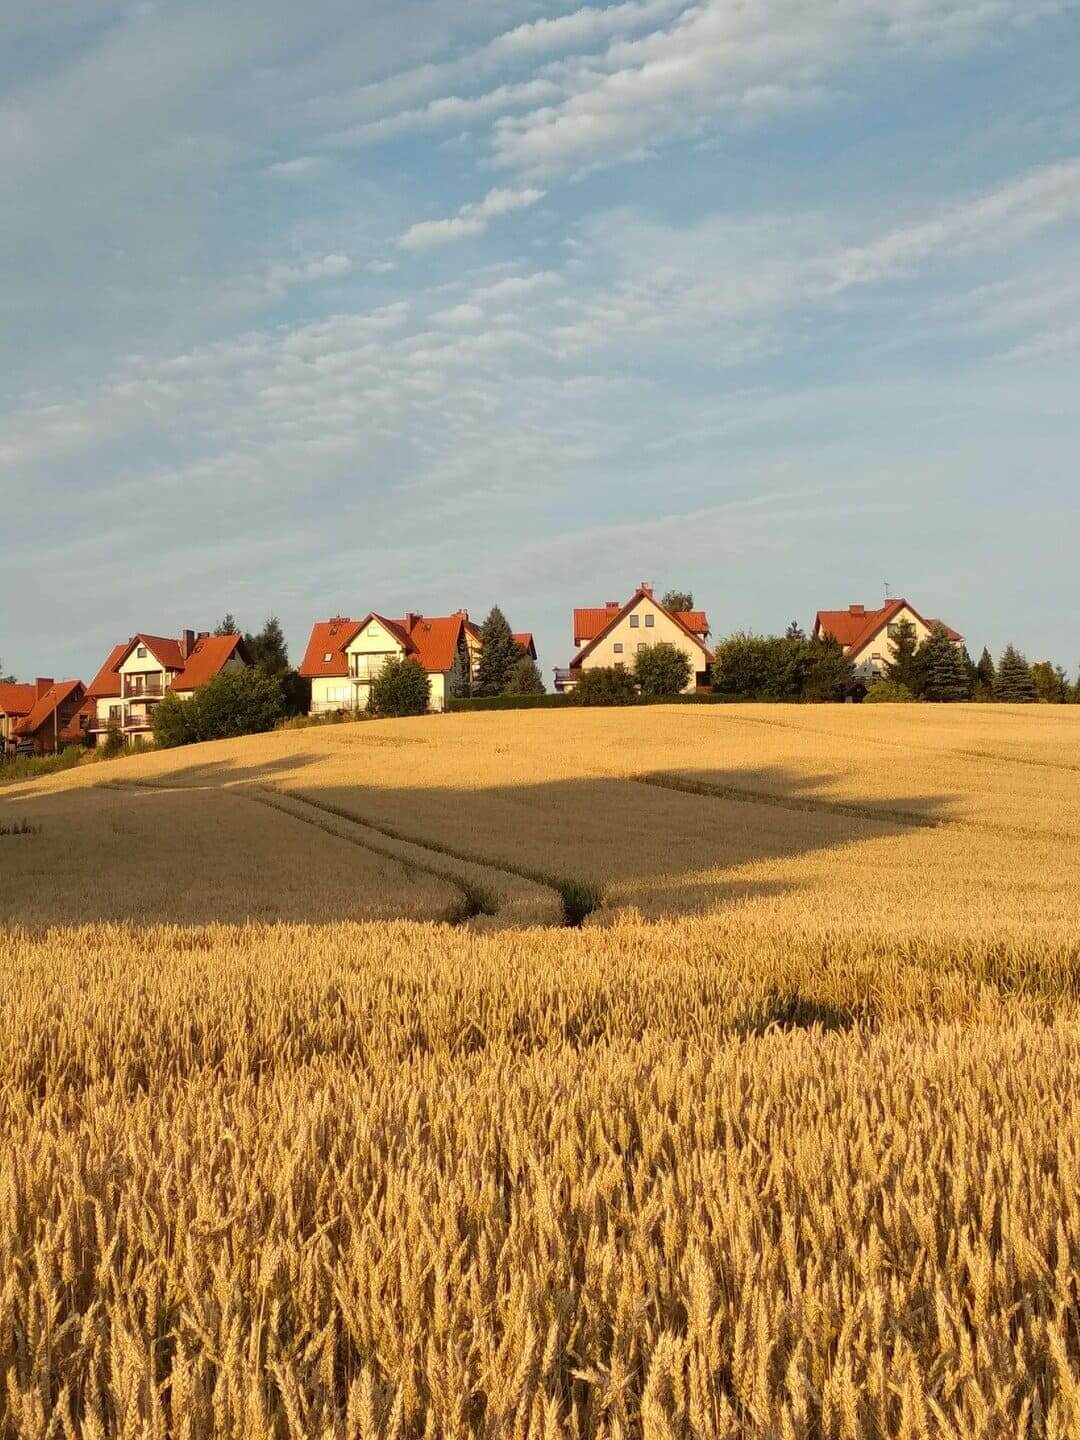
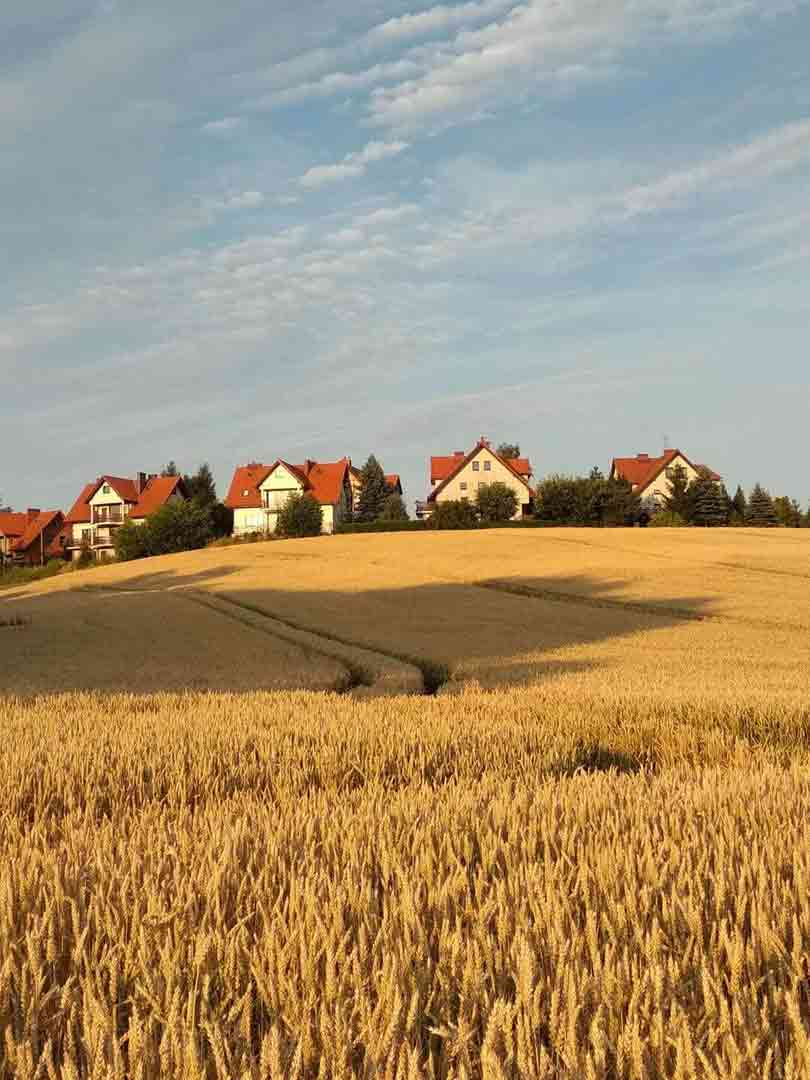
Adjust css in game and reduce file size of background image

diff --git a/public/css/app.css b/public/css/app.css
@@ -160,7 +160,7 @@
   /* padding: 0.6em; */
   border-radius: 1rem;
   animation: pop-light 1s 1;
-  margin: 2rem 0.5rem 1rem 0.5rem;
+  margin: 1rem 0.5rem 1rem 0.5rem;
   max-width: 20.5rem;
   min-width: 20.5rem;
   max-height: 8rem;
@@ -452,6 +452,7 @@
   justify-content: center;
   align-items: center;
   flex-direction: column;
+  gap:1rem;
   margin: 0 0.5rem 0 0.5rem;
 }
 .game-players-col2 {
@@ -459,6 +460,7 @@
   justify-content: center;
   align-items: center;
   flex-direction: column;
+  gap:1rem;
   margin: 0 0.5rem 0 0.5rem;
 }
 
@@ -472,7 +474,6 @@
   color: var(--dark-fg);
   /* top-left | top-right | bottom-right | bottom-left */
   border-radius: 0.75rem;
-  margin-bottom: 1rem;
   min-width: 8.5rem;
   max-width: 8.5rem;
 }
